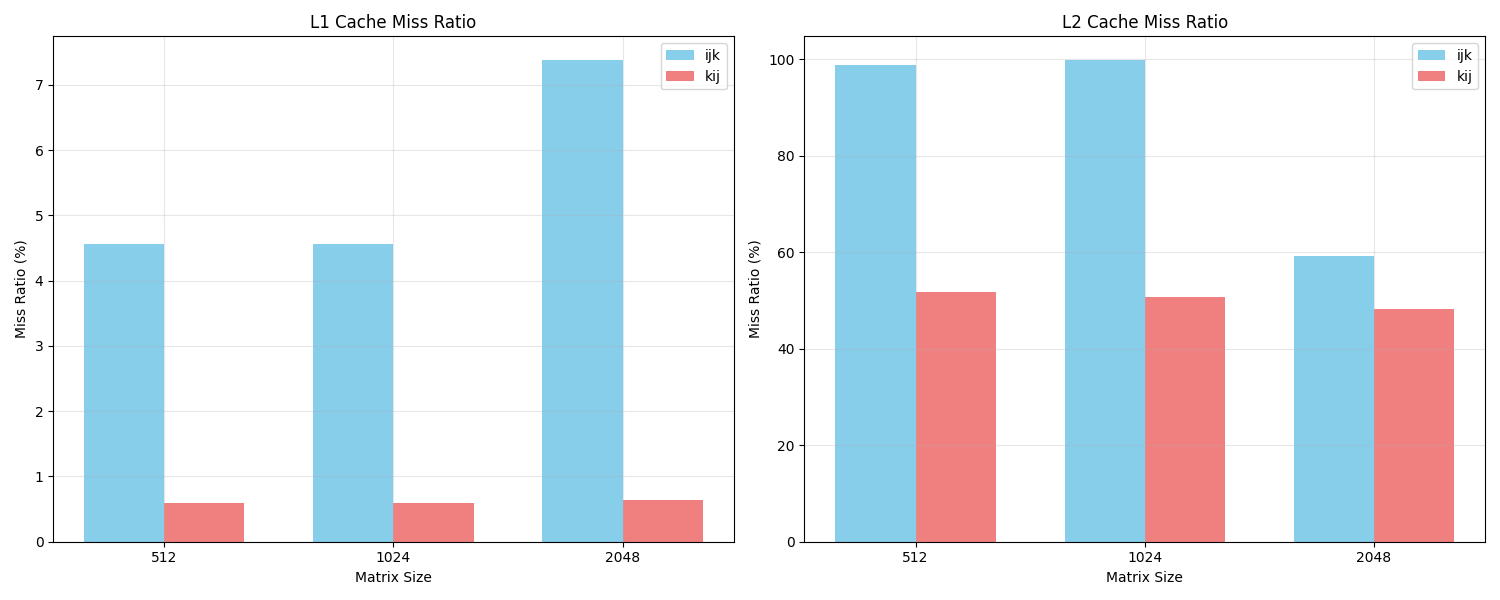
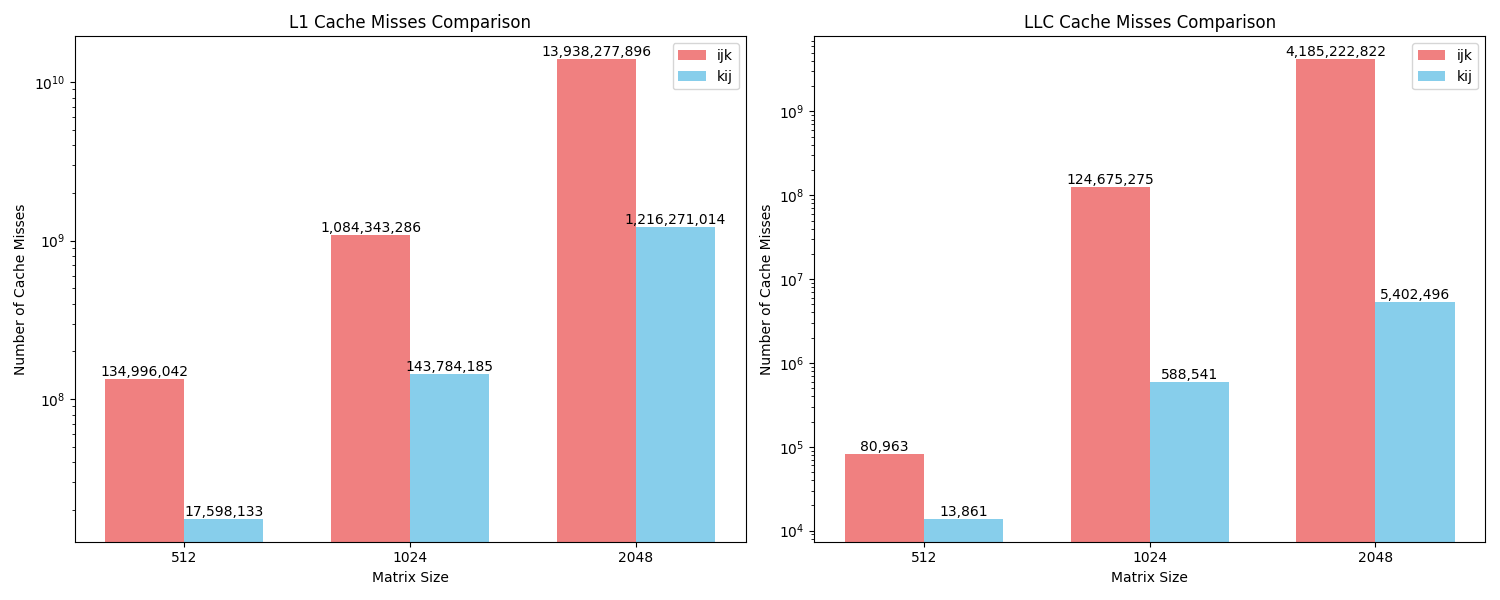
Fix parallel optimization's clock measurement issue

diff --git a/simple_mat_mul/cache_misses_bar_charts.py b/simple_mat_mul/cache_misses_bar_charts.py
@@ -6,59 +6,64 @@ matrix_sizes = ['512', '1024', '2048']
 
 # L1 cache loads and misses for ijk and kij (normalized to percentages)
 l1_loads = {
-    'ijk': [2958801913, 23647988484, 189121292839],
-    'kij': [2958594144, 23645538405, 189076485716]
+    'ijk': [2958874388, 23648715259, 189122813166],
+    'kij': [2958592729, 23645761803, 189077345014]
 }
 l1_misses = {
-    'ijk': [135102013, 1080347809, 13949132985],
-    'kij': [17601764, 139988463, 1195638785]
+    'ijk': [134996042, 1084343286, 13938277896],
+    'kij': [17598133, 143784185, 1216271014]
 }
 
-# L2 cache loads (references) and misses for ijk and kij (normalized to percentages)
-l2_loads = {
-    'ijk': [135275630, 1081460664, 14670456209],
-    'kij': [35252010, 279388213, 2315535987]
+# LLC cache loads (references) and misses for ijk and kij (normalized to percentages)
+llc_loads = {
+    'ijk': [131577155, 1075390810, 8669856942],
+    'kij': [306639, 1608774, 8230791]
 }
-l2_misses = {
-    'ijk': [133724908, 1078489514, 8693090760],
-    'kij': [18250040, 141712329, 1116813844]
+llc_misses = {
+    'ijk': [80963, 124675275, 4185222822],
+    'kij': [13861, 588541, 5402496]
 }
 
-# Calculate miss ratios (as percentages)
-l1_miss_ratio_ijk = [misses/loads*100 for misses, loads in zip(l1_misses['ijk'], l1_loads['ijk'])]
-l1_miss_ratio_kij = [misses/loads*100 for misses, loads in zip(l1_misses['kij'], l1_loads['kij'])]
-
-l2_miss_ratio_ijk = [misses/loads*100 for misses, loads in zip(l2_misses['ijk'], l2_loads['ijk'])]
-l2_miss_ratio_kij = [misses/loads*100 for misses, loads in zip(l2_misses['kij'], l2_loads['kij'])]
-
-# Set up the figure with two subplots
+# Set up the figure with two subplots side by side
 fig, (ax1, ax2) = plt.subplots(1, 2, figsize=(15, 6))
 
-# Set width of bars and positions of the bars
+# Set width of bars and positions
 width = 0.35
 x = np.arange(len(matrix_sizes))
 
-# Create bars for L1 cache miss ratios
-ax1.bar(x - width/2, l1_miss_ratio_ijk, width, label='ijk', color='skyblue')
-ax1.bar(x + width/2, l1_miss_ratio_kij, width, label='kij', color='lightcoral')
-ax1.set_title('L1 Cache Miss Ratio')
+# Plot L1 cache misses (using log scale) - REVERSED COLORS
+ax1.bar(x - width/2, l1_misses['ijk'], width, label='ijk', color='lightcoral')
+ax1.bar(x + width/2, l1_misses['kij'], width, label='kij', color='skyblue')
+ax1.set_yscale('log')
+ax1.set_title('L1 Cache Misses Comparison')
 ax1.set_xlabel('Matrix Size')
-ax1.set_ylabel('Miss Ratio (%)')
+ax1.set_ylabel('Number of Cache Misses')
 ax1.set_xticks(x)
 ax1.set_xticklabels(matrix_sizes)
 ax1.legend()
-ax1.grid(True, alpha=0.3)
 
-# Create bars for L2 cache miss ratios
-ax2.bar(x - width/2, l2_miss_ratio_ijk, width, label='ijk', color='skyblue')
-ax2.bar(x + width/2, l2_miss_ratio_kij, width, label='kij', color='lightcoral')
-ax2.set_title('L2 Cache Miss Ratio')
+# Add value labels on top of each bar
+for i, v in enumerate(l1_misses['ijk']):
+    ax1.text(i - width/2, v, f'{v:,.0f}', ha='center', va='bottom', rotation=0)
+for i, v in enumerate(l1_misses['kij']):
+    ax1.text(i + width/2, v, f'{v:,.0f}', ha='center', va='bottom', rotation=0)
+
+# Plot LLC cache misses (using log scale) - REVERSED COLORS
+ax2.bar(x - width/2, llc_misses['ijk'], width, label='ijk', color='lightcoral')
+ax2.bar(x + width/2, llc_misses['kij'], width, label='kij', color='skyblue')
+ax2.set_yscale('log')
+ax2.set_title('LLC Cache Misses Comparison')
 ax2.set_xlabel('Matrix Size')
-ax2.set_ylabel('Miss Ratio (%)')
+ax2.set_ylabel('Number of Cache Misses')
 ax2.set_xticks(x)
 ax2.set_xticklabels(matrix_sizes)
 ax2.legend()
-ax2.grid(True, alpha=0.3)
+
+# Add value labels on top of each bar
+for i, v in enumerate(llc_misses['ijk']):
+    ax2.text(i - width/2, v, f'{v:,.0f}', ha='center', va='bottom', rotation=0)
+for i, v in enumerate(llc_misses['kij']):
+    ax2.text(i + width/2, v, f'{v:,.0f}', ha='center', va='bottom', rotation=0)
 
 plt.tight_layout()
 plt.show()

diff --git a/optimization_parallel/New_parallel_all.c b/optimization_parallel/New_parallel_all.c
@@ -25,6 +25,23 @@ typedef struct {
     long peak_memory;  // Peak resident set size
 } memory_stats_t;
 
+/* Rename timer_t to my_timer_t to avoid conflict */
+typedef struct {
+    struct timeval start;
+    struct timeval end;
+} my_timer_t;
+
+/* Update function signatures */
+void timer_start(my_timer_t* timer) {
+    gettimeofday(&timer->start, NULL);
+}
+
+double timer_end(my_timer_t* timer) {
+    gettimeofday(&timer->end, NULL);
+    return (timer->end.tv_sec - timer->start.tv_sec) + 
+           (timer->end.tv_usec - timer->start.tv_usec) / 1000000.0;
+}
+
 /*
  * Get memory statistics
  */
@@ -136,7 +153,8 @@ int32_t main(int32_t argc, char *argv[]) {
     get_memory_stats(&stats_seq_start);
     
     memset(r, 0, matrix_size);
-    clock_t t_seq = clock();
+    my_timer_t timer_seq;
+    timer_start(&timer_seq);
 
     for (uint32_t i = 0; i < N; ++i)
         for (uint32_t j = 0; j < N; ++j) {
@@ -147,13 +165,9 @@ int32_t main(int32_t argc, char *argv[]) {
             r[i * N + j] = sum;
         }
 
-    t_seq = clock() - t_seq;
-    get_memory_stats(&stats_seq_end);
-    
+    double seq_time = timer_end(&timer_seq);
     printf("\n=== Sequential Multiplication Results ===\n");
-    printf("Time: %6.2f seconds\n", ((float)t_seq)/CLOCKS_PER_SEC);
-    print_memory_stats_delta(&stats_seq_start, &stats_seq_end, "Sequential");
-    print_matrix_sample(N, r, "Sequential Result");
+    printf("Time: %6.2f seconds\n", seq_time);
 
     /* Parallel multiplication */
     printf("\nPerforming parallel multiplication...\n");
@@ -161,9 +175,10 @@ int32_t main(int32_t argc, char *argv[]) {
     get_memory_stats(&stats_par_start);
     
     memset(r, 0, matrix_size);
-    clock_t t_par = clock();
+    my_timer_t timer_par;
+    timer_start(&timer_par);
 
-    uint32_t num_threads = 4;
+    uint32_t num_threads = sysconf(_SC_NPROCESSORS_ONLN);
     pthread_t threads[num_threads];
     thread_data_t thread_data[num_threads];
 
@@ -178,13 +193,9 @@ int32_t main(int32_t argc, char *argv[]) {
         pthread_join(threads[i], NULL);
     }
 
-    t_par = clock() - t_par;
-    get_memory_stats(&stats_par_end);
-
+    double par_time = timer_end(&timer_par);
     printf("\n=== Parallel Multiplication Results ===\n");
-    printf("Time: %6.2f seconds\n", ((float)t_par)/CLOCKS_PER_SEC);
-    print_memory_stats_delta(&stats_par_start, &stats_par_end, "Parallel");
-    print_matrix_sample(N, r, "Parallel Result");
+    printf("Time: %6.2f seconds\n", par_time);
 
     /* Overall statistics */
     get_memory_stats(&stats_current);
